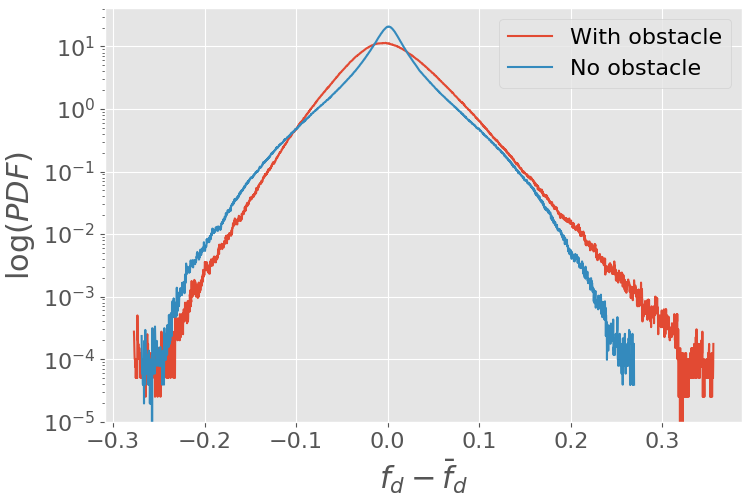
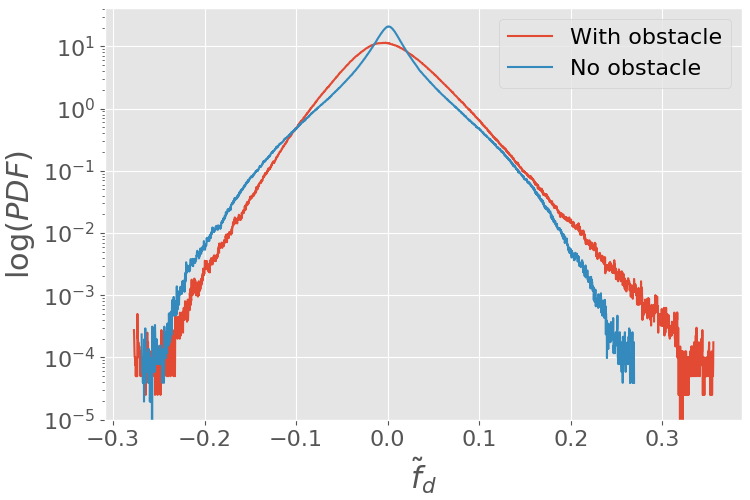
Fix f tilde in PDF and corresponding text

diff --git a/draft_p2.tex b/draft_p2.tex
@@ -305,7 +305,7 @@ It is therefore natural to consider the drag as a random process.
 Drag fluctuations have been recorder during a simulation of duration $T_{tot} = 4 \times 10^6~\tau_0$. This very long simulation will be referred to as the \textit{control run} in the remainder. It has been made possible by the relative simplicity of the investigated two-dimensional flow and the computational efficiency of the Lattice Boltzmann method. 
 %The related execution time is about a few weeks (wall-clock time).
 The \ac{pdf} of the drag fluctuations is displayed in Fig.~\ref{fig:pdf_drag_a}.
-It deviates from a normal law and exhibits an exponential tail for large positive values, \textit{i.e.}  ${\mathbb{P}}(\tilde f_d) \propto e^{-\lambda \tilde f_d}$.
+It deviates from a normal law and exhibits an exponential tail for large positive values, \textit{i.e.}  ${\mathbb{P}}(f_d) \propto e^{-\lambda f_d}$.
 %
 Fig.~\ref{fig:pdf_drag_a} also shows the \ac{pdf} of drag fluctuations acting on a control surface corresponding the periphery of the obstacle but in the absence of the obstacle. 
 %

diff --git a/figures/PDF_drag/plot_pdf.py b/figures/PDF_drag/plot_pdf.py
@@ -6,7 +6,7 @@ plt.style.use('ggplot')
 
 
 buf = np.fromfile("pdfData_SQ_centered.dat", float, -1, "");
-n=len(buf)/2
+n=int(len(buf)/2)
 f = buf[0:n]
 xi = buf[n:]
 
@@ -15,13 +15,13 @@ lineSQ, = ax.plot(xi,f)
 lineSQ.set_label('With obstacle')
 
 buf = np.fromfile("pdfData_NOSQ.dat", float, -1, "");
-n=len(buf)/2
+n=int(len(buf)/2)
 f = buf[0:n]
 xi = buf[n:]
 lineNOSQ, = ax.plot(xi,f, label='No obstacle')
 
 ax.set_yscale('log')
-ax.set_xlabel('$f_d - \\bar{f}_d$',fontsize=22)
+ax.set_xlabel('$\\tilde{f}_d$',fontsize=22)
 plt.ylabel('$\log(PDF)$',fontsize=22)
 plt.xticks(fontsize=16)
 plt.yticks(fontsize=16)
